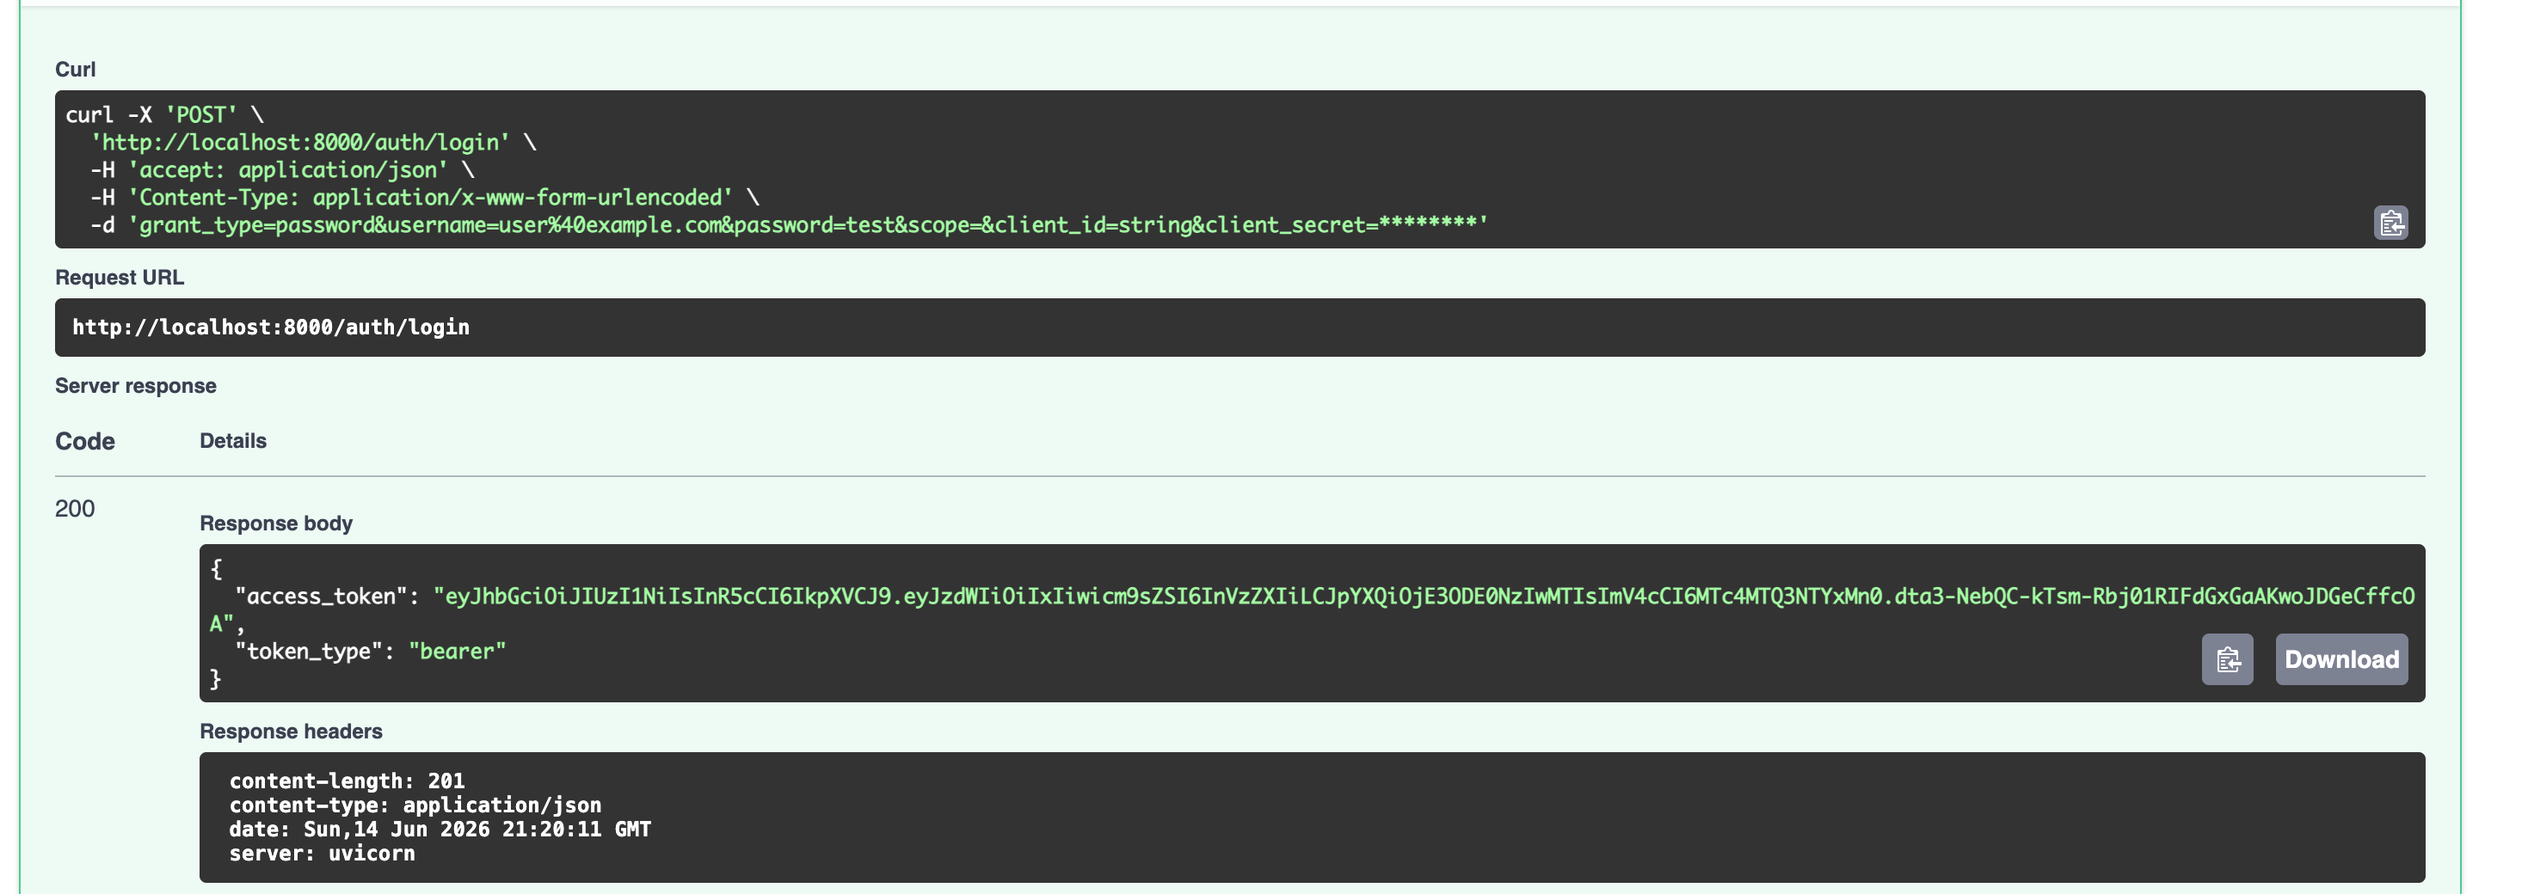
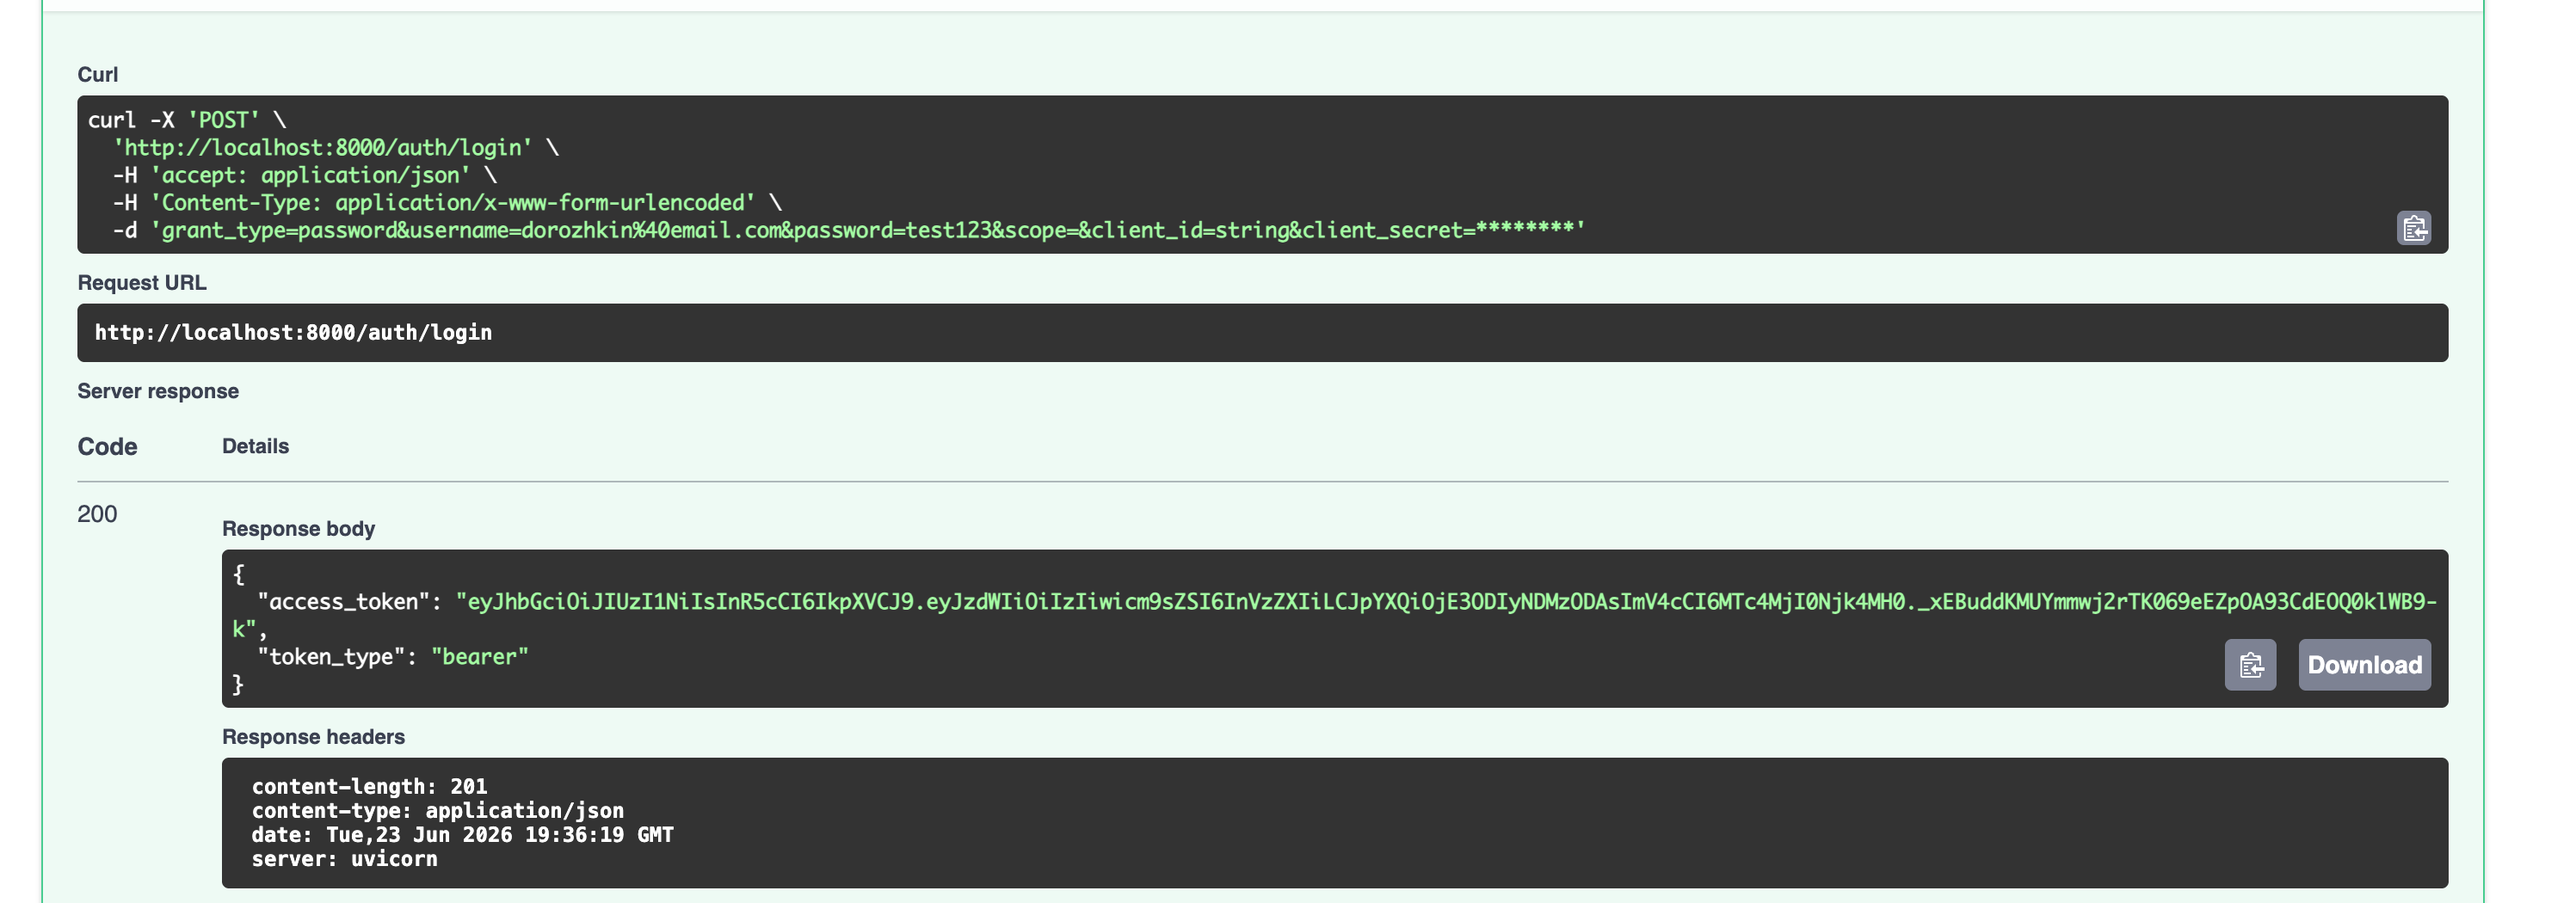
fixed_issues

diff --git a/README.md b/README.md
@@ -166,8 +166,8 @@ uv run pytest tests/ -v
 **POST /auth/register:**
 ```json
 {
-  "email": "user@example.com",
-  "password": "test"
+  "email": "dorozhkin@email.com",
+  "password": "test123"
 }
 ```
 
@@ -176,8 +176,8 @@ uv run pytest tests/ -v
 ### Шаг 2. Вход и получение JWT
 
 **POST /auth/login** (form-data):
-- `username`: `user@example.com`
-- `password`: `test`
+- `username`: `dorozhkin@email.com`
+- `password`: `test123`
 
 Ответ содержит `access_token` — скопируйте его.
 
@@ -220,6 +220,8 @@ uv run pytest tests/ -v
 
 ### Auth Service (20 тестов)
 
+![Тесты в Auth Service](images/tests_auth.png)
+
 | Категория | Тесты                                                                    |
 |-----------|--------------------------------------------------------------------------|
 | Модульные: хеширование паролей | hash != plain, verify correct, verify wrong, different salts             |
@@ -230,6 +232,8 @@ uv run pytest tests/ -v
 | Интеграционные: полный флоу | register -> login -> me                                                  |
 
 ### Bot Service (20 тестов)
+
+![Тесты в Bot Service](images/tests_bot.png)
 
 | Категория | Тесты |
 |-----------|-------|
